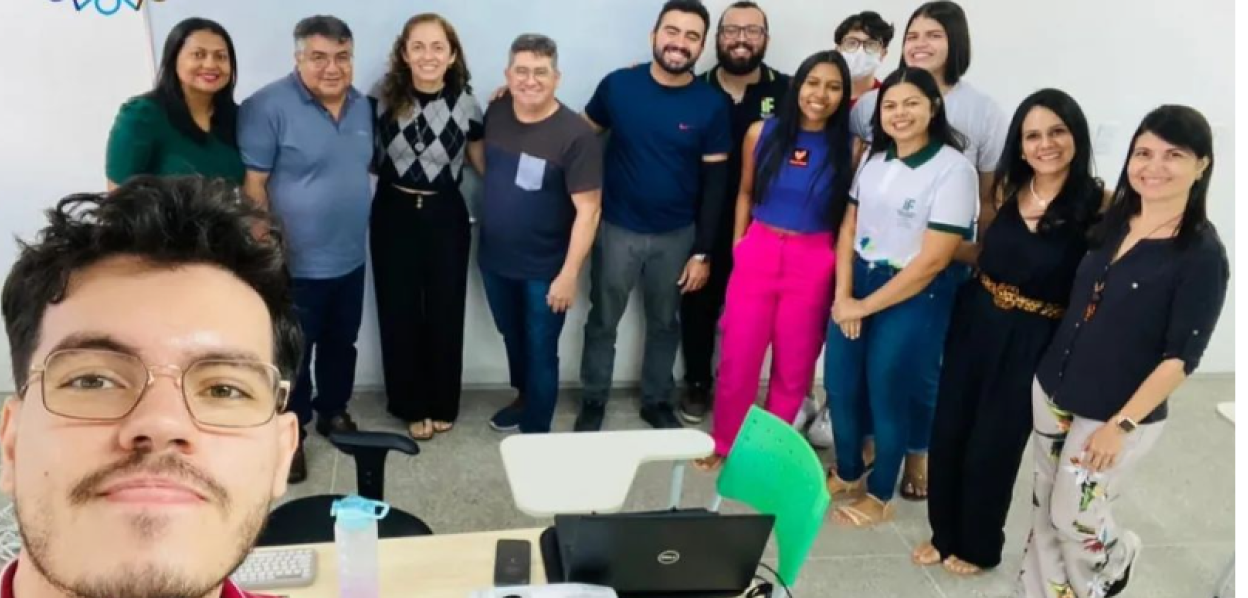
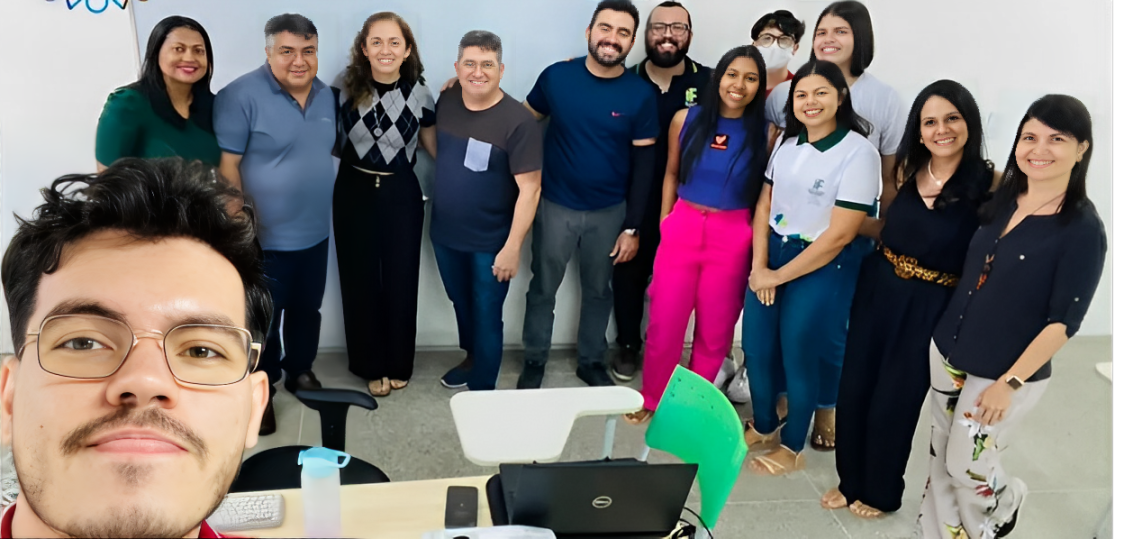
Melhorando qualidade das imagens, corrigindo erros e adicionando detalhes

diff --git a/index.html b/index.html
@@ -5,6 +5,7 @@
     <meta name="viewport" content="width=device-width, initial-scale=1.0">
     <link href="https://cdn.jsdelivr.net/npm/bootstrap@5.3.3/dist/css/bootstrap.min.css" rel="stylesheet" integrity="sha384-QWTKZyjpPEjISv5WaRU9OFeRpok6YctnYmDr5pNlyT2bRjXh0JMhjY6hW+ALEwIH" crossorigin="anonymous">
     <script src="https://cdn.jsdelivr.net/npm/bootstrap@5.3.3/dist/js/bootstrap.bundle.min.js" integrity="sha384-YvpcrYf0tY3lHB60NNkmXc5s9fDVZLESaAA55NDzOxhy9GkcIdslK1eN7N6jIeHz" crossorigin="anonymous"></script>
+    <link rel="icon" href="./imgs/logo-napne-p.png" type="image/png">
     <link rel="stylesheet" href="style.css">
     <link rel="shortcut" href="imgs/logo-napne.webp">
     <script src="script.js"></script> <!-- Corrigido para src -->
@@ -45,40 +46,37 @@
                 <li><a href="#eventos">Eventos</a></li>
                 <li><a href="#contatos">Contatos</a></li>
             </ul>
-            <select name="select-color" id="colorMode"> <!-- Adicionado ID -->
-                <option value="">Nenhum Filtro</option>
-                <option value="protanopia">Protanopia</option>
-                <option value="deuteranopia">Deuteranopia</option>
-                <option value="tritanopia">Tritanopia</option>
-                <option value="high-contrast">Alto Contraste</option>
+            <select name="select-color" id="colorMode" class="select" style="height: 100%; font-weight: bold; color: #343a40;"> <!-- Adicionado ID -->
+                <option value="" class="option">Nenhum filtro</option>
+                <option value="protanopia" class="option">Protanopia</option>
+                <option value="deuteranopia" class="option">Deuteranopia</option>
+                <option value="tritanopia" class="option">Tritanopia</option>
+                <option value="high-contrast" class="option">Alto Contraste</option>
             </select>
         </nav>
     </header>
    
-        <div class="carrosel">
-            <div class="carousel slide" data-ride="carousel">
-                <div class="carousel-inner">
-                    <div class="carousel-item active">
-                        <img src="imgs/image (9).png" class="d-block w-100" alt="Imagem 1">
-                    </div>
-                    <div class="carousel-item">
-                        <img src="imgs/image (5).png" class="d-block w-100" alt="Imagem 2">
-                    </div>
-                    <div class="carousel-item">
-                        <img src="imgs/image (6).png" class="d-block w-100" alt="Imagem 3">
-                    </div>
-                </div>
-                <!-- Controles do carrossel -->
-                <a class="carousel-control-prev" href="#carouselExample" role="button" data-slide="prev">
-                    <span class="carousel-control-prev-icon" aria-hidden="true"></span>
-                    <span class="sr-only"></span>
-                </a>
-                <a class="carousel-control-next" href="#carouselExample" role="button" data-slide="next">
-                    <span class="carousel-control-next-icon" aria-hidden="true"></span>
-                    <span class="sr-only"></span>
-                </a>
-            </div>
+    <div id="carouselExample" class="carousel slide" data-bs-ride="carousel">
+        <div class="carousel-inner">
+          <div class="carousel-item active">
+            <img src="imgs/image (9).png" alt="...">
+          </div>
+          <div class="carousel-item">
+            <img src="imgs/image (5).png" alt="...">
+          </div>
+          <div class="carousel-item">
+            <img src="imgs/image (6).png" alt="...">
+          </div>
         </div>
+        <button class="carousel-control-prev" type="button" data-bs-target="#carouselExample" data-bs-slide="prev">
+          <span class="carousel-control-prev-icon" aria-hidden="true"></span>
+          <span class="visually-hidden">Previous</span>
+        </button>
+        <button class="carousel-control-next" type="button" data-bs-target="#carouselExample" data-bs-slide="next">
+          <span class="carousel-control-next-icon" aria-hidden="true"></span>
+          <span class="visually-hidden">Next</span>
+        </button>
+      </div>
  <main>
         <h2 id="quem_somos">Quem somos</h2><!--"Título"-->
         <div class="line" id="line-qm"></div><!--Linha de separação-->
@@ -258,37 +256,23 @@
         <div class="line" id="line-even"></div><!--Linha de separação-->
         <div class="eventos">
             <div class="container mt-5">
-                <div id="carouselExampleIndicators" class="carousel slide" data-ride="carousel">
+                <div id="carouselExampleIndicators" class="carousel slide" data-bs-ride="carousel">
                     <ol class="carousel-indicators">
                         <li data-target="#carouselExampleIndicators" data-slide-to="0" class="active"></li>
                         <li data-target="#carouselExampleIndicators" data-slide-to="1"></li>
-                        <li data-target="#carouselExampleIndicators" data-slide-to="2"></li>
                     </ol>
-                    <div class="carousel-inner">
-                        <div class="carousel-item active">
-                            <img src="imgs/image (1).png" class="d-block w-100" alt="Imagem 1">
-                            <div class="carousel-caption d-none d-md-block">
-                            </div>
-                        </div>
-                        <div class="carousel-item">
-                            <img src="imgs/image.png" class="d-block w-100" alt="Imagem 2">
-                            <div class="carousel-caption d-none d-md-block">
-                            </div>
-                        </div>
-                        <div class="carousel-item">
-                            <img src="imgs/image (1).png" class="d-block w-100" alt="Imagem 3">
-                            <div class="carousel-caption d-none d-md-block">
+                    <div class="container mt-5">
+                        <div id="carouselExampleAutoplaying" class="carousel slide" data-bs-ride="carousel">
+                            <div class="carousel-inner">
+                              <div class="carousel-item active">
+                                <img src="imgs/image (1).png" alt="...">
+                              </div>
+                              <div class="carousel-item">
+                                <img src="imgs/image.png" alt="...">
+                              </div>
                             </div>
                         </div>
                     </div>
-                    <a class="carousel-control-prev" href="#carouselExampleIndicators" role="button" data-slide="prev">
-                        <span class="carousel-control-prev-icon" aria-hidden="true"></span>
-                        <span class="sr-only"></span>
-                    </a>
-                    <a class="carousel-control-next" href="#carouselExampleIndicators" role="button" data-slide="next">
-                        <span class="carousel-control-next-icon" aria-hidden="true"></span>
-                        <span class="sr-only"></span>
-                    </a>
                 </div>
             </div>            
         </div>
@@ -299,7 +283,7 @@
         <img class="social-icons" src="imgs/Logo_NAPNE_Horizontal_fundo_branco_3x.png" alt="logo horisoltal napne">
         <br>
         <br>
-        <div class="midia">
+        <div class="midia" id="contatos">
             <a href="#"><img class="social-icons" src="imgs/instagram.png" alt="logo instagram"></a>
             <a href="#"><img class="social-icons" src="imgs/facebook.png" alt="logo facebook"></a>
             <a href="#"><img class="social-icons" src="imgs/youtube.png" alt="logo youtube"></a>

diff --git a/style.css b/style.css
@@ -21,10 +21,12 @@ body {
 }
 
 .header nav {
+    background-image: linear-gradient(rgb(228, 228, 228), rgb(233, 231, 231), white);
     display: flex;
     justify-content: space-between;
     align-items: center;
     padding: 10px 20px;
+    border-bottom: 1px solid black;
 }
 
 .header nav img {
@@ -57,11 +59,6 @@ body {
 .header select{
     height: 18px;
     margin-right: auto;
-}
-
-
-.carrosel {
-    margin-bottom: 2rem;
 }
 
 .carousel-inner img {
@@ -136,7 +133,7 @@ h4{
     margin-bottom: 1rem;
 }
 
-.container {
+.container{
     display: flex;
     flex-wrap: wrap;
     gap: 1rem;
@@ -284,3 +281,31 @@ body::before {
     display: none;
 }
 
+.select{
+    font-family: Arial, sans-serif;
+    background-color: rgba(245, 245, 245, 0.212);
+    border: 2px solid black;
+    border-radius: 5px;
+    text-align: center;
+    justify-content: center;
+}
+
+.carousel{
+    text-align: center;
+}
+
+.carousel img{
+    margin-top: 100px;
+    height: 82vh;
+}
+
+.carousel button:hover{
+    transition: 0.3s;
+    background-image: linear-gradient(white, white, white, rgb(177, 177, 177), rgb(100, 100, 100), rgb(40,40,40), rgb(100, 100, 100), rgb(177, 177, 177), white, white, white);
+}
+
+option{
+    height: 100%; 
+    font-weight: bold; 
+    color: #4d565f;;
+}
